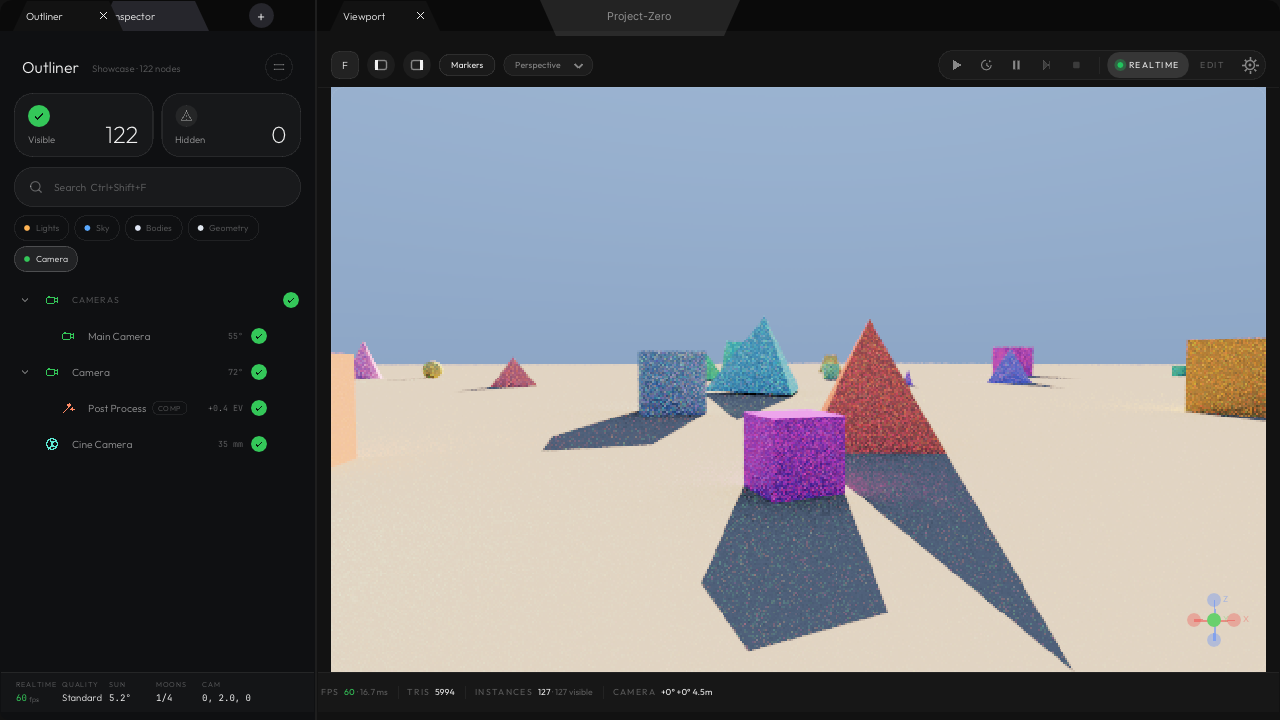
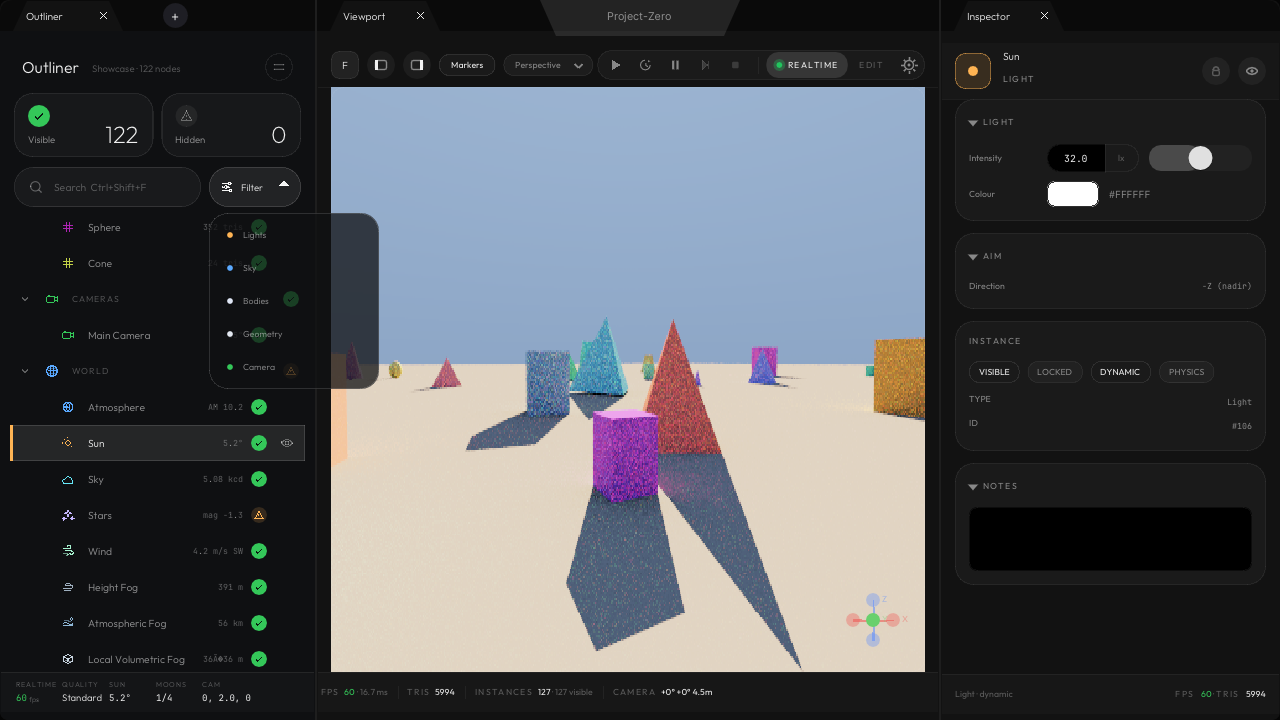
Update editor visual proofs for filter dropdown

diff --git a/Exhibits/Workbench/Editor/EditorProof.cpp b/Exhibits/Workbench/Editor/EditorProof.cpp
@@ -805,37 +805,36 @@ int main()
         }
     }
 
-    // Gate 5 — a narrowing pill lights: a click on Camera fills it (g3 over glass) and lifts its ink to white.
-    Click(46.0f, 259.0f);
-    Rest(6);
+    // Gate 5 — filtering now opens from the search row's dropdown. The Menu sheet captures the dropdown itself,
+    //    then the Filtered sheet captures the selected Camera chip seated under the search/filter row.
+    Click(255.0f, 187.0f);
+    Rest(2);
     Rasterise();
     {
         const char* MenuSheet = "Exhibits/Gallery/Editor/EditorProof_Menu.png";
         if (stbi_write_png(MenuSheet, kWidth, kHeight, 3, Pixels.data(), kWidth * 3) == 0)
         {
-            std::fprintf(stderr, "[EditorProof] [FAIL] the pill sheet would not write\n");
+            std::fprintf(stderr, "[EditorProof] [FAIL] the filter-menu sheet would not write\n");
             return 1;
         }
-        int Lit = 0;
-        for (int Y = 247; Y < 272; ++Y)
-            for (int X = 16; X < 76; ++X)
+        int MenuInk = 0;
+        for (int Y = 208; Y < 404; ++Y)
+            for (int X = 204; X < 318; ++X)
             {
                 const unsigned char* P = At(X, Y);
-                if (std::abs(static_cast<int>(P[0]) - 34) <= 4 && std::abs(static_cast<int>(P[1]) - 35) <= 4
-                    && std::abs(static_cast<int>(P[2]) - 37) <= 4)
-                    ++Lit;
+                if (P[0] > 24u || P[1] > 24u || P[2] > 24u)
+                    ++MenuInk;
             }
-        std::fprintf(stderr, "[EditorProof] camera pill: %d lit cells\n", Lit);
-        if (Lit < 300)
+        std::fprintf(stderr, "[EditorProof] filter dropdown: %d ink cells\n", MenuInk);
+        if (MenuInk < 900)
         {
-            std::fprintf(stderr, "[EditorProof] [FAIL] the Camera pill never lit\n");
+            std::fprintf(stderr, "[EditorProof] [FAIL] the filter dropdown never opened\n");
             Failed = true;
         }
     }
 
-    // Gate 6 — the narrowing works: with Camera lit the outline drops to the camera rows, so the World folder's
-    //    Atmosphere row (y ≈ 372) is gone and the first row under the pills is Camera. The names print dim
-    //    (t2 .56, below the old 150 bar), so this counts tree ink, not bright ink, over the tree's own rows.
+    Click(255.0f, 367.0f);
+    Rest(6);
     Rasterise();
     {
         const char* NarrowSheet = "Exhibits/Gallery/Editor/EditorProof_Filtered.png";
@@ -844,24 +843,32 @@ int main()
             std::fprintf(stderr, "[EditorProof] [FAIL] the narrowed sheet would not write\n");
             return 1;
         }
+        int Chip = 0;
+        for (int Y = 202; Y < 232; ++Y)
+            for (int X = 12; X < 112; ++X)
+            {
+                const unsigned char* P = At(X, Y);
+                if (P[0] > 32u || P[1] > 32u || P[2] > 32u)
+                    ++Chip;
+            }
         int Rows = 0;
-        for (int Y = 284; Y < 624; ++Y)
-            for (int X = 40; X < 300; ++X)
+        for (int Y = 236; Y < 624; ++Y)
+            for (int X = 22; X < 300; ++X)
             {
                 const unsigned char* P = At(X, Y);
                 if (P[0] > 60u || P[1] > 60u || P[2] > 60u)
                     ++Rows;   // name ink
             }
         int Green = 0;
-        for (int Y = 284; Y < 424; ++Y)
-            for (int X = 40; X < 90; ++X)
+        for (int Y = 236; Y < 520; ++Y)
+            for (int X = 22; X < 112; ++X)
             {
                 const unsigned char* P = At(X, Y);
                 if (P[1] > 150u && P[0] < 120u && P[2] < 140u)
                     ++Green;   // the camera glyph in its #34c759
             }
-        std::fprintf(stderr, "[EditorProof] narrowed: %d ink cells, %d camera-green cells\n", Rows, Green);
-        if (Rows < 1000 || Rows > 2600)
+        std::fprintf(stderr, "[EditorProof] narrowed: %d chip cells, %d ink cells, %d camera-green cells\n", Chip, Rows, Green);
+        if (Chip < 120 || Rows < 700 || Rows > 6000)
         {
             std::fprintf(stderr, "[EditorProof] [FAIL] the narrowed outline is the wrong size\n");
             Failed = true;
@@ -998,7 +1005,7 @@ int main()
     }
 
     // Gate 9 — the gizmo answers: a pad tap snaps its view, a drag orbits, and the wheel dollies.
-    Click(1233.0f, 588.0f);
+    Click(892.0f, 580.0f);
     Rest(3);
     {
         const Frontier::ViewportOrbit& Orbit = Editor.QueryViewportOrbit();
@@ -1012,12 +1019,12 @@ int main()
     {
         const float    YawBefore = Editor.QueryViewportOrbit().Yaw;
         const uint32_t RevBefore = Editor.QueryViewportOrbit().Revision;
-        Tick(1213.0f, 587.0f, false);
-        Tick(1213.0f, 587.0f, false);
-        Tick(1213.0f, 587.0f, true);
+        Tick(872.0f, 620.0f, false);
+        Tick(872.0f, 620.0f, false);
+        Tick(872.0f, 620.0f, true);
         for (int i = 1; i <= 8; ++i)
-            Tick(1213.0f + 5.0f * static_cast<float>(i), 587.0f, true);
-        Tick(1253.0f, 587.0f, false);
+            Tick(872.0f + 5.0f * static_cast<float>(i), 620.0f, true);
+        Tick(912.0f, 620.0f, false);
         Rest(3);
         const Frontier::ViewportOrbit& Orbit = Editor.QueryViewportOrbit();
         std::fprintf(stderr, "[EditorProof] gizmo drag: yaw %.3f (was %.3f) snap %u rev %u\n",
@@ -1308,7 +1315,7 @@ int main()
         }
     };
     Rest(60);   // let the tab bar settle: a click must land where the mark rendered
-    CycleTab(189.0f, 2u, 2u, true, 130.0f);
+    CycleTab(1045.0f, 2u, 2u, true, 1000.0f);
     CycleTab(103.0f, 0u, 0u, false, 90.0f);
     Click(90.0f, 15.0f);   // raise the outliner again: later sheets open on it
     Rest(3);
